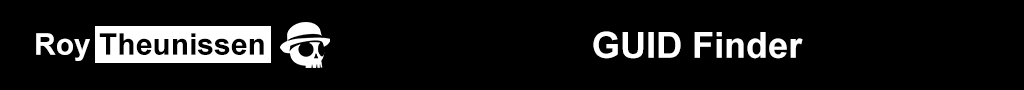
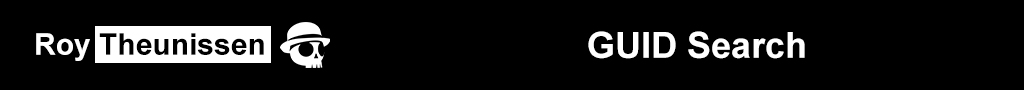
Renamed the project from GUID Finder to GUID Search which seems clearer

Changed region(s): [[0.5625, 0.3333, 0.8125, 0.6667]]

diff --git a/Editor/GuidSearchWindow.cs b/Editor/GuidSearchWindow.cs
@@ -9,9 +9,9 @@ using UnityEngine.UIElements;
 using EditorUtility = UnityEditor.EditorUtility;
 using Object = UnityEngine.Object;
 
-namespace RoyTheunissen.GuidFinder
+namespace RoyTheunissen.GuidSearch
 {
-    public sealed class GuidFinderWindow : EditorWindow
+    public sealed class GuidSearchWindow : EditorWindow
     {
         [Flags]
         public enum AssetTypes
@@ -49,7 +49,7 @@ namespace RoyTheunissen.GuidFinder
             }
         }
 
-        private static string EditorPrefPrefix => ProjectPath + "RoyTheunissen/GUID-Finder/";
+        private static string EditorPrefPrefix => ProjectPath + "RoyTheunissen/GUID-Search/";
         private static string EditorPrefSearchPath = EditorPrefPrefix + "SearchPath";
         private static string EditorPrefAssetsToSearchIn = EditorPrefPrefix + "AssetsToSearchIn";
 
@@ -83,19 +83,19 @@ namespace RoyTheunissen.GuidFinder
 
         private bool HasFilesToSearchIn => EditorPrefs.HasKey(EditorPrefAssetsToSearchIn);
 
-        [MenuItem("Window/Search/GUID Finder")]
+        [MenuItem("Window/Search/GUID Search")]
         public static void ShowExample()
         {
-            GuidFinderWindow window = GetWindow<GuidFinderWindow>();
+            GuidSearchWindow window = GetWindow<GuidSearchWindow>();
             
             if (lightModeIcon == null)
-                lightModeIcon = Resources.Load<Texture2D>("GuidFinderWindow Icon");
+                lightModeIcon = Resources.Load<Texture2D>("GuidSearchWindow Icon");
 
             if (darkModeIcon == null)
-                darkModeIcon = Resources.Load<Texture2D>("d_GuidFinderWindow Icon");
+                darkModeIcon = Resources.Load<Texture2D>("d_GuidSearchWindow Icon");
             
             window.titleContent = new GUIContent(
-                "GUID Finder", EditorGUIUtility.isProSkin ? darkModeIcon : lightModeIcon);
+                "GUID Search", EditorGUIUtility.isProSkin ? darkModeIcon : lightModeIcon);
         }
 
         public void CreateGUI()

diff --git a/Editor/Extensions/StringExtensions.cs b/Editor/Extensions/StringExtensions.cs
@@ -1,6 +1,6 @@
 using System.IO;
 
-namespace RoyTheunissen.GuidFinder
+namespace RoyTheunissen.GuidSearch
 {
     internal static class StringExtensions
     {
